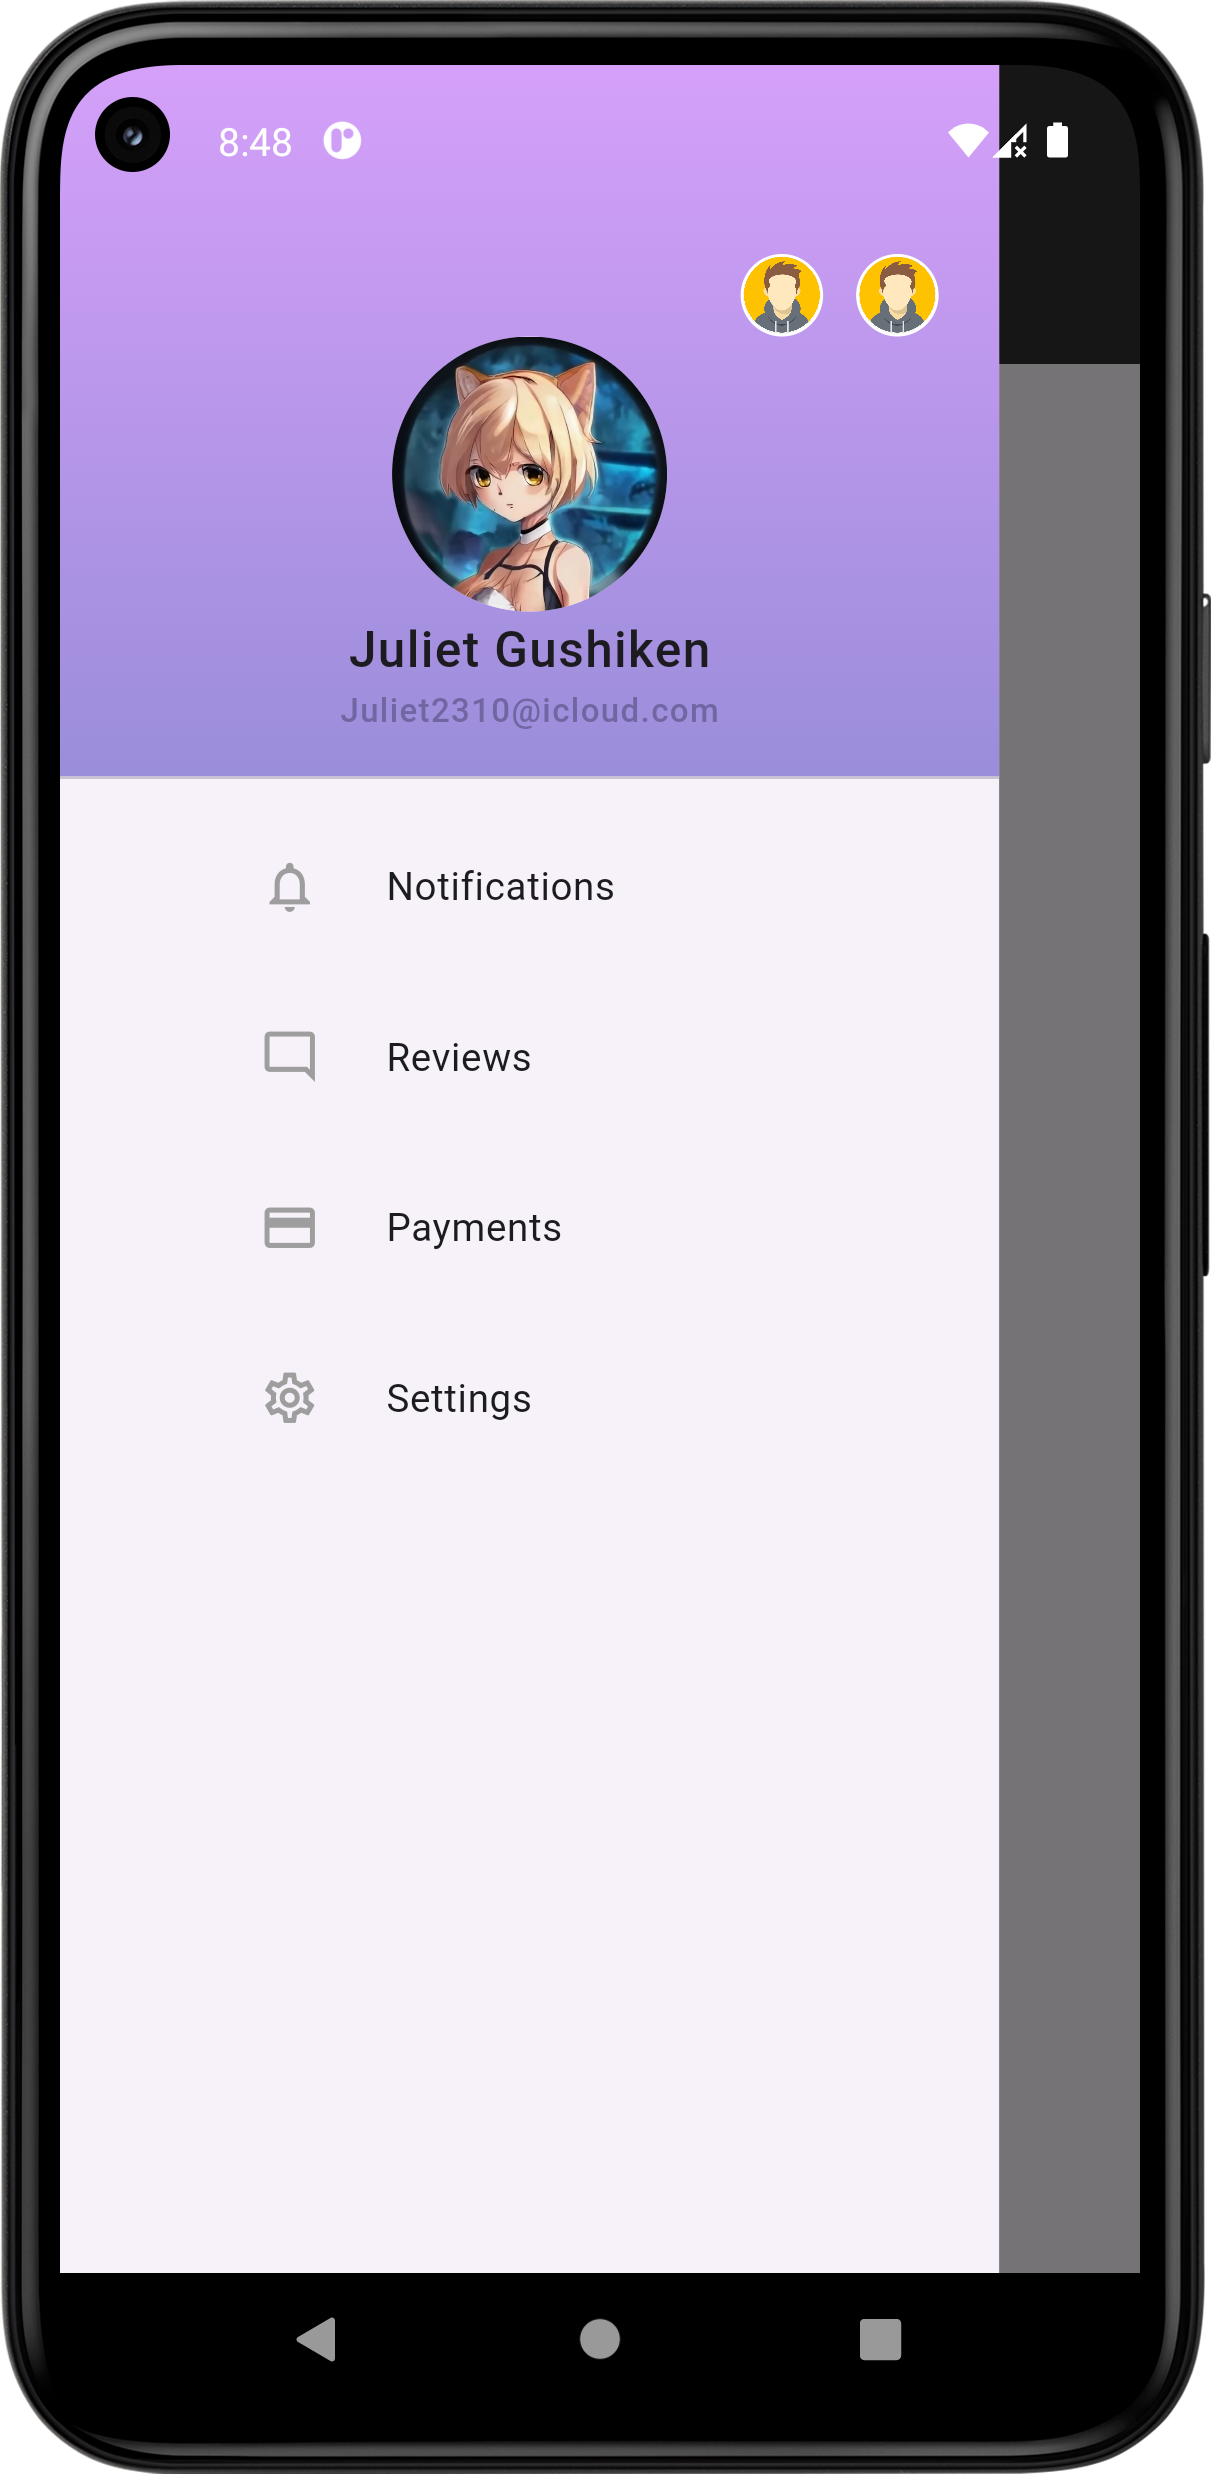
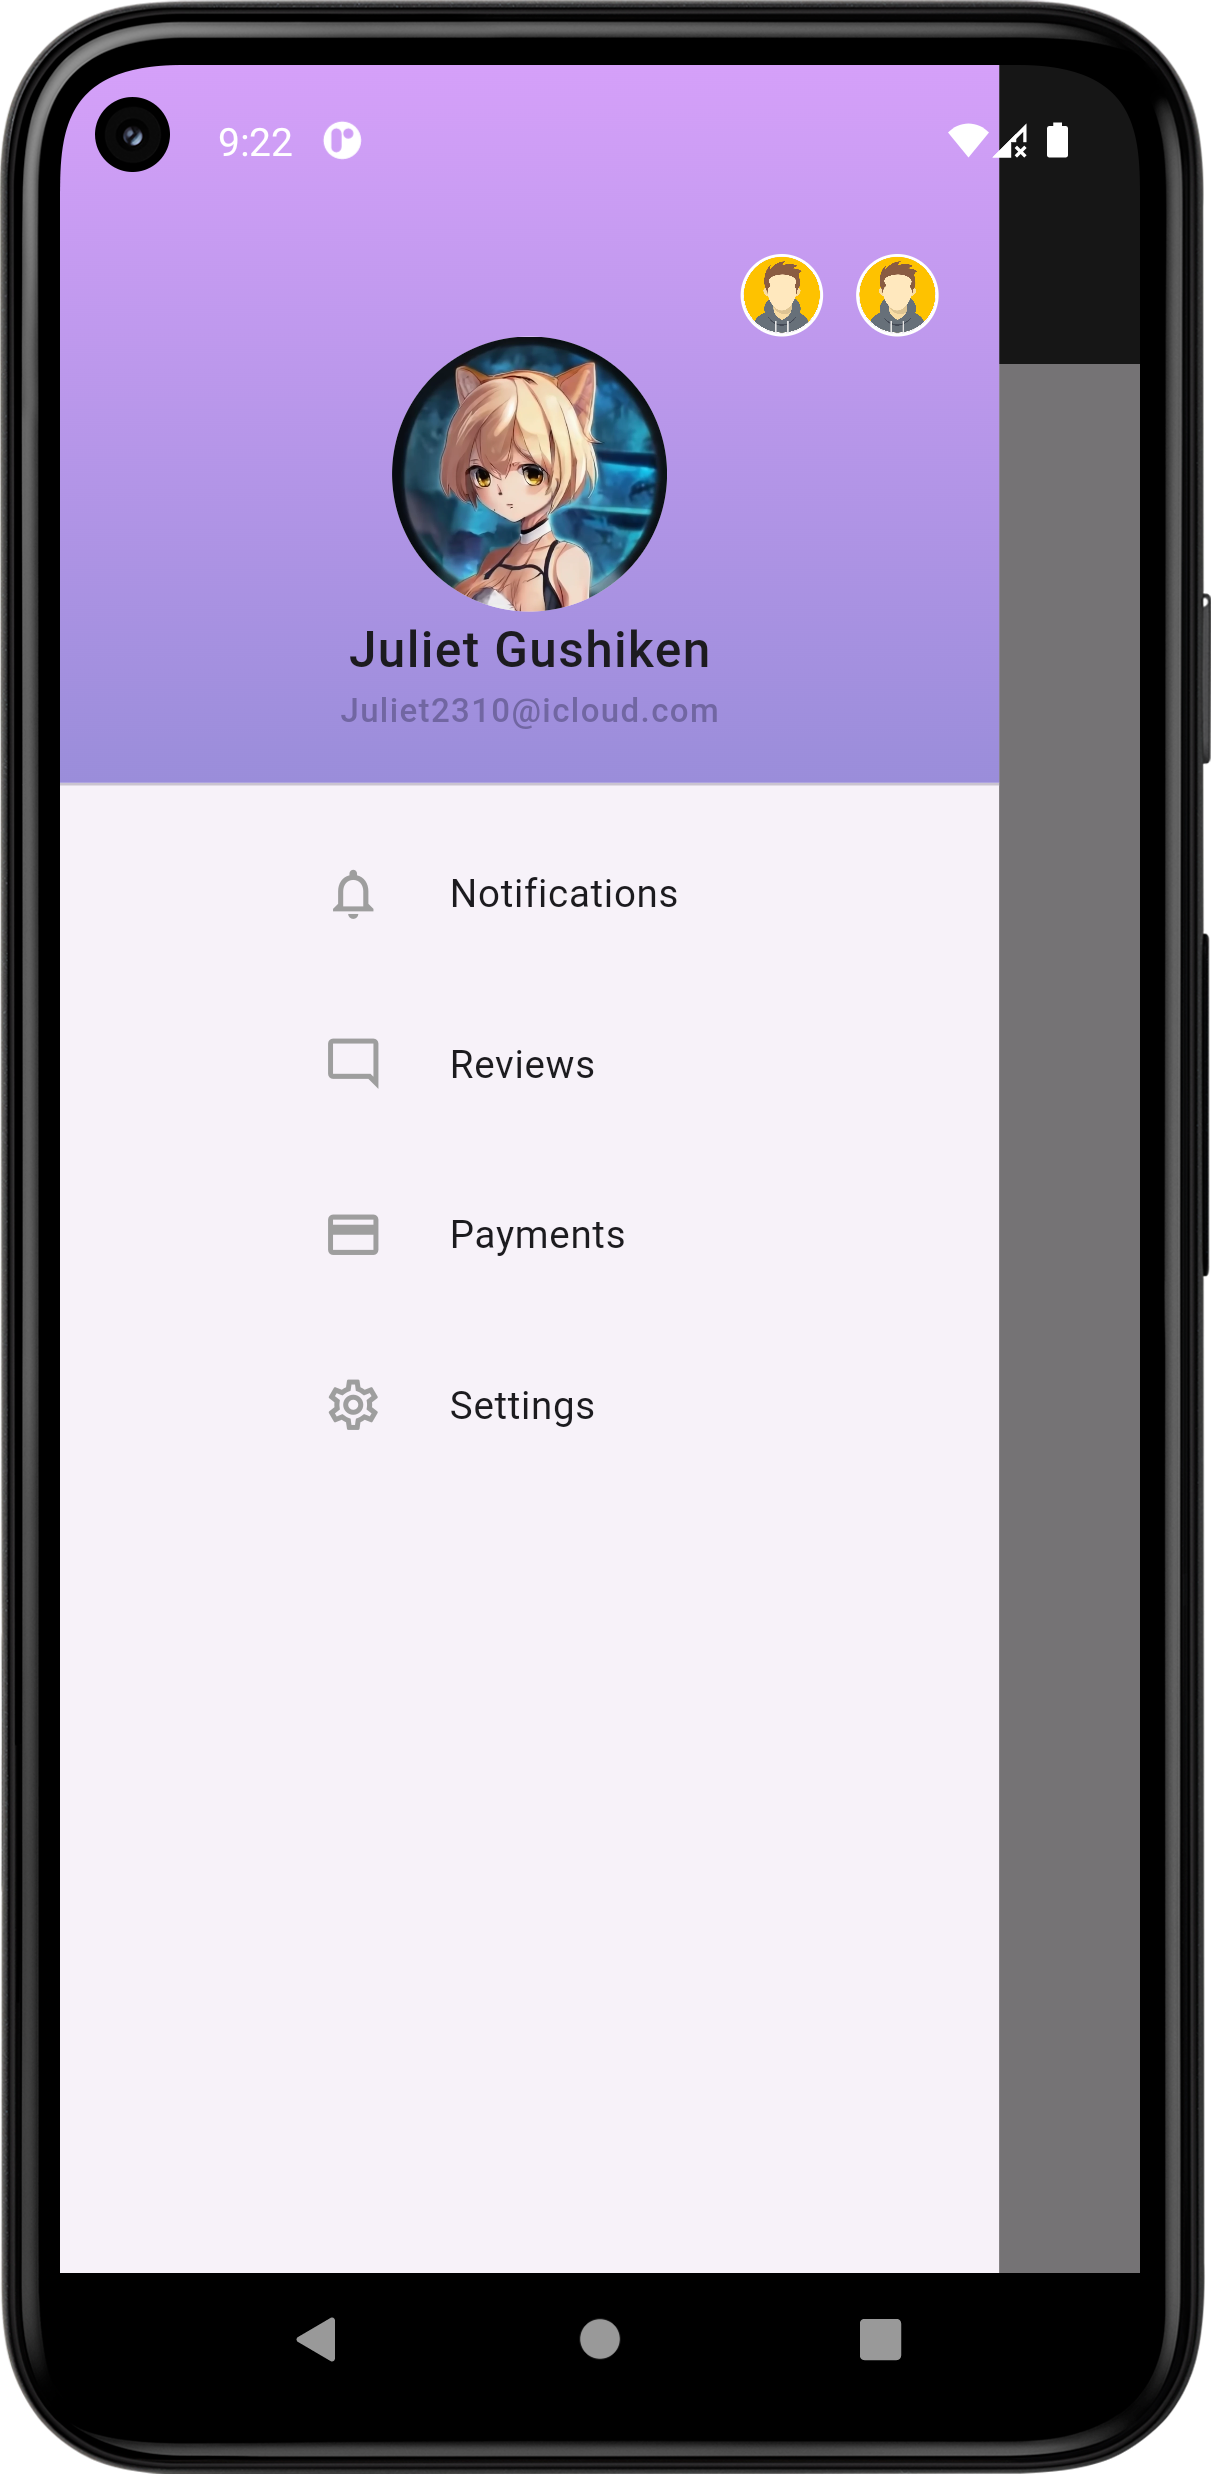
21-02-2024

diff --git a/lib/DrawerTasks/drawer_two.dart b/lib/DrawerTasks/drawer_two.dart
@@ -20,58 +20,58 @@ class _DrawerTwoState extends State<DrawerTwo> {
       drawer: Drawer(
         width: width / 1.15,
         shape: const RoundedRectangleBorder(),
-        child: Container(
-          alignment: Alignment.center,
-          child: Column(
-            children: [
+        child: Column(
+          children: [
 
-              //DRAWER HEADER
-              Expanded(
-                child: DrawerHeader(
-                  decoration: const BoxDecoration(
-                    gradient: LinearGradient(
-                      begin: Alignment.bottomCenter,
-                      end: Alignment.topCenter,
-                      colors: [
-                        Color(0xff9a8dda),
-                        Color(0xffd5a0f9)
-                      ]
-                    )
-                  ),
-                    child: Column(
-                      children: [
-
-                        //TWO MINI AVATAR
-                        Row(
-                          mainAxisAlignment: MainAxisAlignment.end,
-                          children: [
-                            addAvatar(),
-                            addAvatar(),
-                          ],
-                        ),
-
-                        //ONE MAIN AVATAR
-                        addAvatar2(),
-
-                        //NAME AND EMAIL
-                        const Text('Juliet Gushiken', style: TextStyle(fontSize: 18, fontWeight: FontWeight.w500),),
-                        const Text('Juliet2310@icloud.com', style: TextStyle(color: Color(0xff7166a2) ,fontSize: 12, fontWeight: FontWeight.w500),),
-                      ],
-                    ),
+            //DRAWER HEADER
+            SizedBox(
+              height: 270,
+              child: DrawerHeader(
+                decoration: const BoxDecoration(
+                  gradient: LinearGradient(
+                    begin: Alignment.bottomCenter,
+                    end: Alignment.topCenter,
+                    colors: [
+                      Color(0xff9a8dda),
+                      Color(0xffd5a0f9)
+                    ]
+                  )
                 ),
-              ),
+                  child: Column(
+                    children: [
 
-              Expanded(
-                flex: 2,
+                      //TWO MINI AVATAR
+                      Row(
+                        mainAxisAlignment: MainAxisAlignment.end,
+                        children: [
+                          addAvatar(),
+                          addAvatar(),
+                        ],
+                      ),
+
+                      //ONE MAIN AVATAR
+                      addAvatar2(),
+
+                      //NAME AND EMAIL
+                      const Text('Juliet Gushiken', style: TextStyle(fontSize: 18, fontWeight: FontWeight.w500),),
+                      const Text('Juliet2310@icloud.com', style: TextStyle(color: Color(0xff7166a2) ,fontSize: 12, fontWeight: FontWeight.w500),),
+                    ],
+                  ),
+              ),
+            ),
+
+            Expanded(
+              flex: 3,
+                child: SingleChildScrollView(
                   child: Column(
                     children: [
                       ...List.generate(drawerList2.length, (index) => addItemBox(icon: drawerList2[index]['icon'], name: drawerList2[index]['name'])),
                     ],
-                  )
-              )
+                  ),
+                )
+            )
 
-            ],
-          ),
+          ],
         ),
       ),
 
@@ -125,7 +125,7 @@ class _DrawerTwoState extends State<DrawerTwo> {
     return Padding(
       padding: const EdgeInsets.symmetric(vertical: 20.0, horizontal: 0),
       child: SizedBox(
-        width: width / 2,
+        width: 150,
         child: Row(
           children: [
             Padding(
